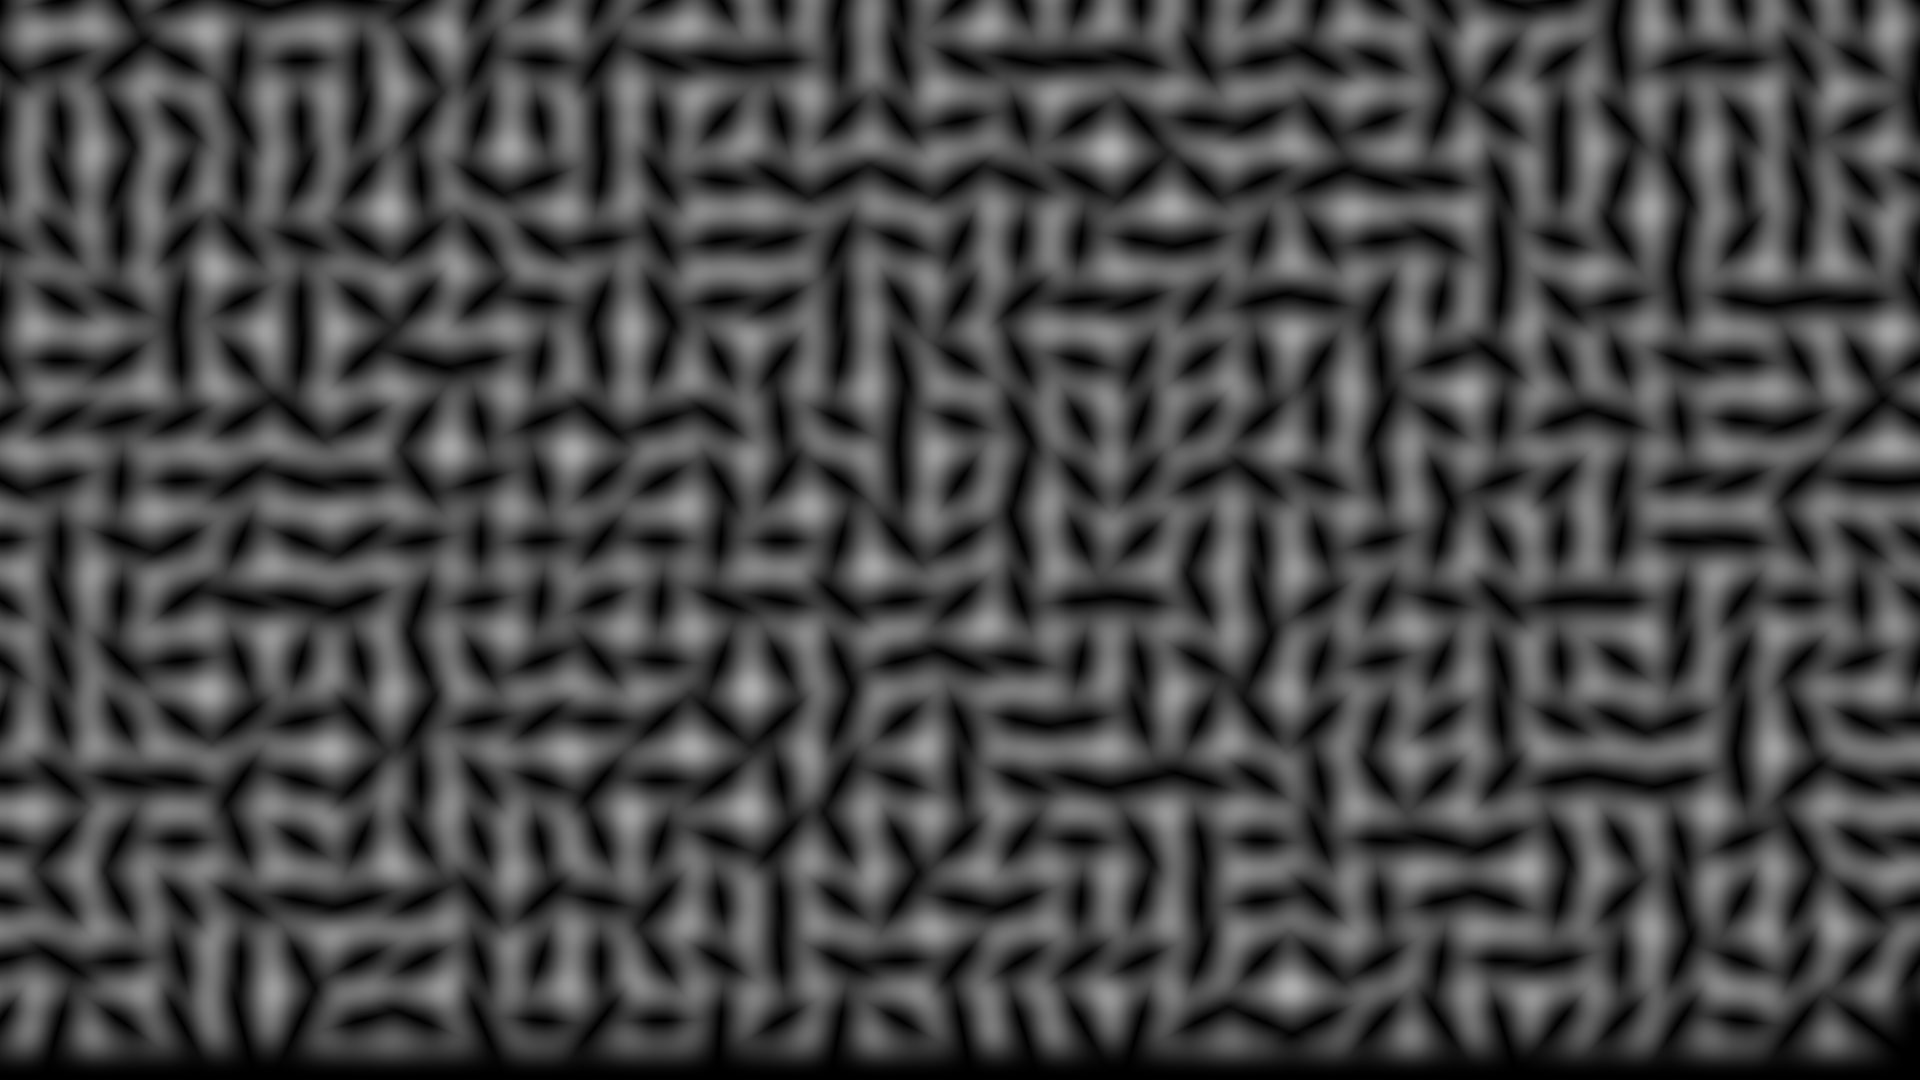
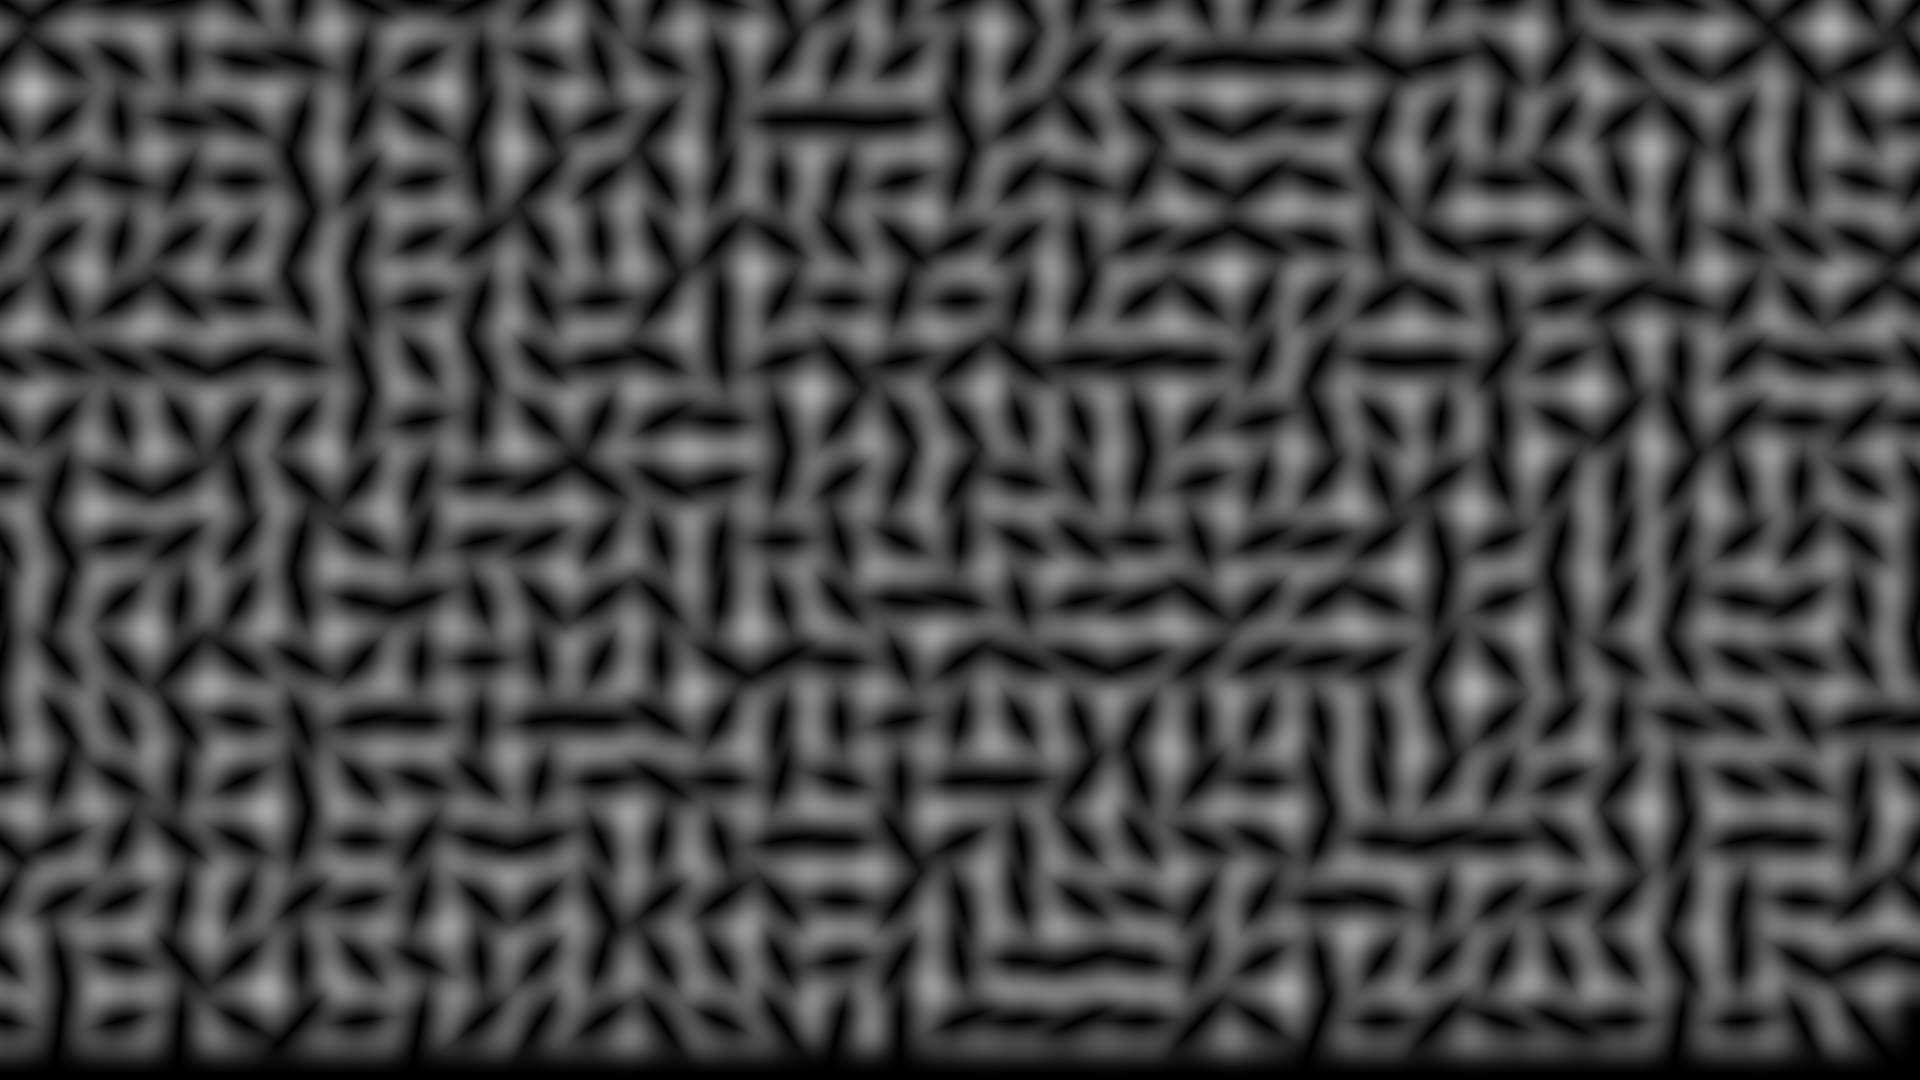
Update repos

diff --git a/reference_perlin.c b/reference_perlin.c
@@ -1,0 +1,101 @@
+#include <math.h>
+#define STB_IMAGE_WRITE_IMPLEMENTATION
+#include"stb_image_write.h"
+
+#define WIDTH 1920
+#define HEIGHT 1080
+#define SCALE 10
+
+/* Function to linearly interpolate between a0 and a1
+ * Weight w should be in the range [0.0, 1.0]
+ */
+float interpolate(float a0, float a1, float w) {
+    /* // You may want clamping by inserting:
+     * if (0.0 > w) return a0;
+     * if (1.0 < w) return a1;
+     */
+    return (a1 - a0) * w + a0;
+    /* // Use this cubic interpolation [[Smoothstep]] instead, for a smooth appearance:
+     * return (a1 - a0) * (3.0 - w * 2.0) * w * w + a0;
+     *
+     * // Use [[Smootherstep]] for an even smoother result with a second derivative equal to zero on boundaries:
+     * return (a1 - a0) * ((w * (w * 6.0 - 15.0) + 10.0) * w * w * w) + a0;
+     */
+}
+
+typedef struct {
+    float x, y;
+} vector2;
+
+/* Create pseudorandom direction vector
+ */
+vector2 randomGradient(int ix, int iy) {
+    // No precomputed gradients mean this works for any number of grid coordinates
+    const unsigned w = 8 * sizeof(unsigned);
+    const unsigned s = w / 2; // rotation width
+    unsigned a = ix, b = iy;
+    a *= 3284157443; b ^= a << s | a >> w-s;
+    b *= 1911520717; a ^= b << s | b >> w-s;
+    a *= 2048419325;
+    float random = a * (3.14159265 / ~(~0u >> 1)); // in [0, 2*Pi]
+    vector2 v;
+    v.x = cos(random); v.y = sin(random);
+    return v;
+}
+
+// Computes the dot product of the distance and gradient vectors.
+float dotGridGradient(int ix, int iy, float x, float y) {
+    // Get gradient from integer coordinates
+    vector2 gradient = randomGradient(ix, iy);
+
+    // Compute the distance vector
+    float dx = x - (float)ix;
+    float dy = y - (float)iy;
+
+    // Compute the dot-product
+    return (dx*gradient.x + dy*gradient.y);
+}
+
+// Compute Perlin noise at coordinates x, y
+float perlin(float x, float y) {
+    // Determine grid cell coordinates
+    int x0 = (int)floor(x);
+    int x1 = x0 + 1;
+    int y0 = (int)floor(y);
+    int y1 = y0 + 1;
+
+    // Determine interpolation weights
+    // Could also use higher order polynomial/s-curve here
+    float sx = x - (float)x0;
+    float sy = y - (float)y0;
+
+    // Interpolate between grid point gradients
+    float n0, n1, ix0, ix1, value;
+
+    n0 = dotGridGradient(x0, y0, x, y);
+    n1 = dotGridGradient(x1, y0, x, y);
+    ix0 = interpolate(n0, n1, sx);
+
+    n0 = dotGridGradient(x0, y1, x, y);
+    n1 = dotGridGradient(x1, y1, x, y);
+    ix1 = interpolate(n0, n1, sx);
+
+    value = interpolate(ix0, ix1, sy);
+    return value; // Will return in range -1 to 1. To make it in range 0 to 1, multiply by 0.5 and add 0.5
+}
+
+int main(){
+    char* data = malloc(sizeof(char)*4*WIDTH*HEIGHT);
+    for(int y = 0; y < HEIGHT; y++){
+        for(int x = 0; x < WIDTH; x++){
+            char res = ((perlin((float)x/WIDTH*SCALE, (float)y/HEIGHT*SCALE)+1)/2.0)*255;
+            data[(WIDTH*y+x)*4+0] = res;
+            data[(WIDTH*y+x)*4+1] = res;
+            data[(WIDTH*y+x)*4+2] = res;
+            data[(WIDTH*y+x)*4+3] = 255;
+        }
+    }
+    stbi_write_png("perlin.png", WIDTH, HEIGHT, 4, data, 4*WIDTH);
+    free(data);
+    return 0;
+}

diff --git a/voronoi.c b/voronoi.c
@@ -1,0 +1,43 @@
+#include<stdio.h>
+#include<stdlib.h>
+#include<math.h>
+#define STB_IMAGE_WRITE_IMPLEMENTATION
+#include"stb_image_write.h"
+
+#define HEIGHT 512
+#define WIDTH 512
+#define NUM_POINTS 200
+
+int points[NUM_POINTS][2];
+
+float min_dist(float x, float y){
+    float mn = 1000000000000.0f;
+    for(int i = 0; i < NUM_POINTS; i++){
+        float h = hypot(points[i][0]-x, points[i][1]-y);
+        if(h<mn){
+            mn = h;
+        }
+    }
+    return mn;
+}
+
+int main(){
+    srand(time(NULL));
+    for(int i = 0; i < NUM_POINTS; i++){
+        points[i][0] = ((float)rand()/RAND_MAX)*WIDTH;
+        points[i][1] = ((float)rand()/RAND_MAX)*HEIGHT;
+    }
+    char* data = malloc(sizeof(char)*4*WIDTH*HEIGHT);
+    for(int y = 0; y < HEIGHT; y++){
+        printf("%d\n", y);
+        for(int x = 0; x < WIDTH; x++){
+            float res = min_dist((float)x/WIDTH, (float)y/HEIGHT);
+            data[(WIDTH*y+x)*4+0] = res*255;
+            data[(WIDTH*y+x)*4+1] = res*255;
+            data[(WIDTH*y+x)*4+2] = res*255;
+            data[(WIDTH*y+x)*4+3] = 255;
+        }
+    stbi_write_png("voronoi.png", WIDTH, HEIGHT, 4, data, WIDTH*4);
+    }
+    return 0;
+}

diff --git a/perlin.c b/perlin.c
@@ -1,6 +1,7 @@
 #include<stdio.h>
 #include<stdlib.h>
 #include<math.h>
+#include<time.h>
 #define STB_IMAGE_WRITE_IMPLEMENTATION
 #include"stb_image_write.h"
 
@@ -16,6 +17,7 @@ float smoothstep(float x0, float x1, float t){
 }
 
 int main(){
+    srand(time(NULL));
     float* vecs = malloc(sizeof(float)*2*GRIDX*GRIDY);
     float* dot = malloc(sizeof(float)*4*WIDTH*HEIGHT);
     for(int i =0; i < GRIDX*GRIDY; i++){
@@ -25,7 +27,7 @@ int main(){
         a *= 3284157443; b ^= a << s | a >> w-s;
         b *= 1911520717; a ^= b << s | b >> w-s;
         a *= 2048419325;
-        float random = a * (3.14159265 / ~(~0u >> 1)); // in [0, 2*Pi]
+        float random = rand(); // in [0, 2*Pi]
         float x = cos(random);
         float y = sin(random);
         vecs[2*i+0] = x;
